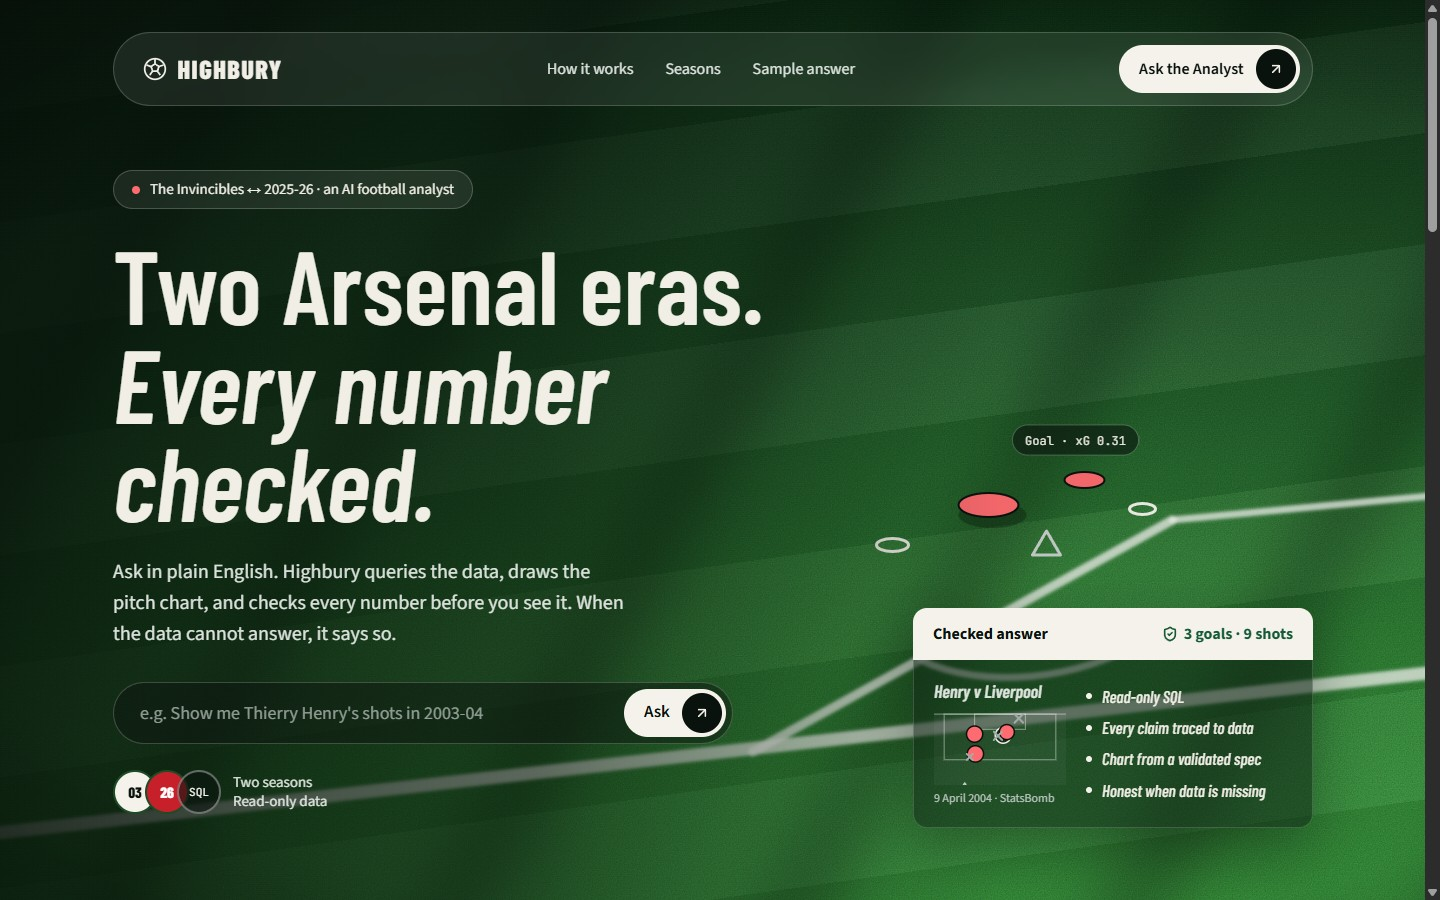
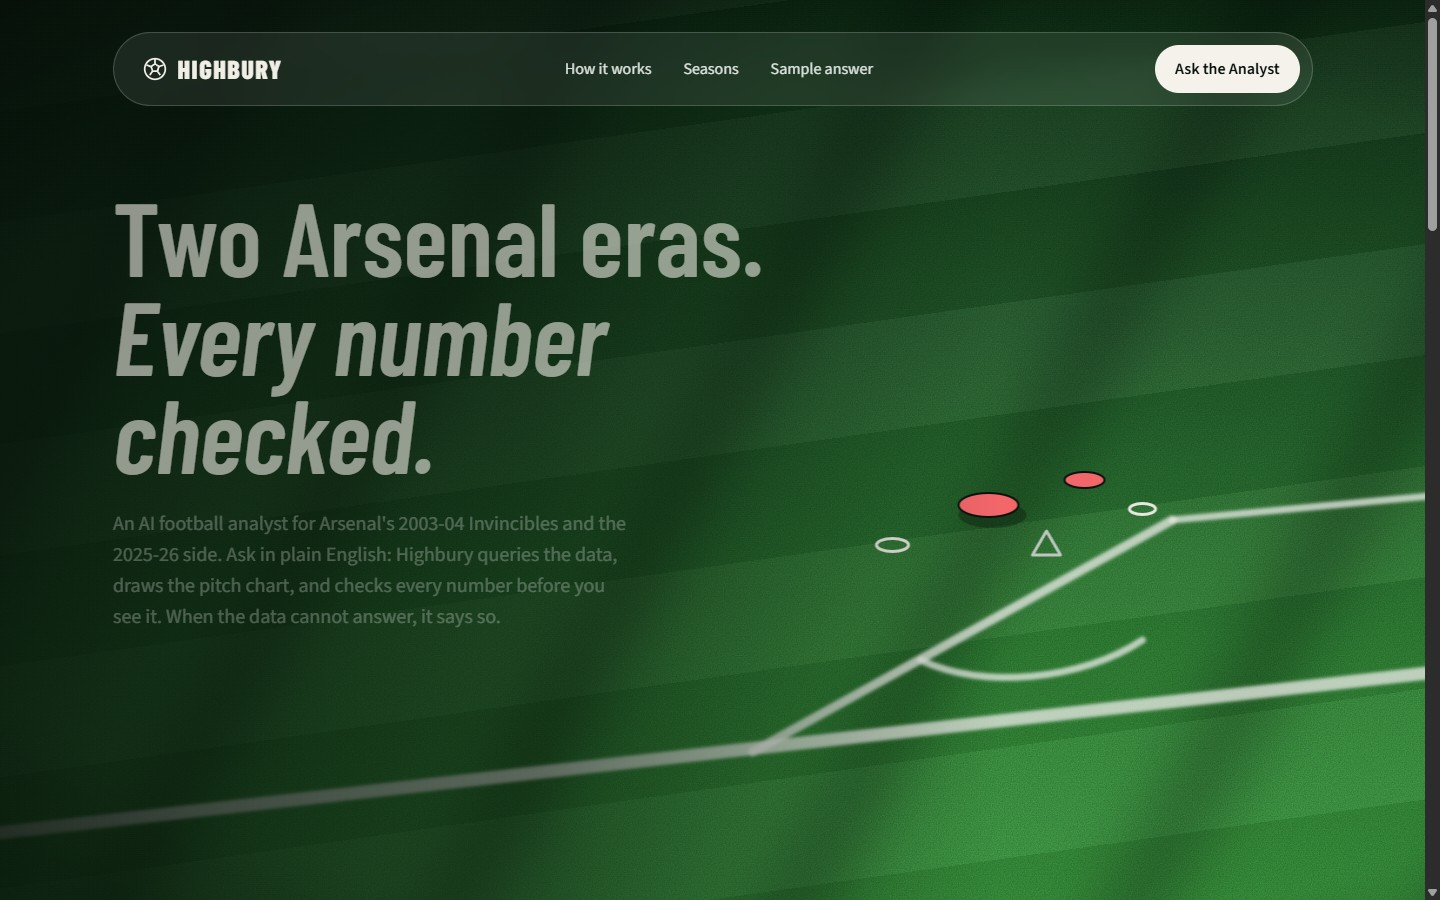
docs: bring the README in step with the beta fixes
The agent now calls three tools, with the catalog and the schema in its
prompt; the MCP server still serves all five. Update the test count, and
retake both screenshots from production: the landing page without the
badge and the arrow-disc pills, and an answer in 4 steps instead of 6.

diff --git a/README.md b/README.md
@@ -50,9 +50,9 @@ Every answer shows:
 
 | Capability | How it works |
 | --- | --- |
-| Answers from real data | An agent plans the question and calls five tools: the data catalog, the schema, a player resolver, a SQL runner, and a chart builder. The data covers shots, passes, and lineups, all 380 league matches of both seasons with team stats and the table, and FPL player data for 2025-26. |
+| Answers from real data | An agent plans the question with the data catalog and the schema already in its prompt, then calls three tools: a player resolver, a SQL runner, and a chart builder. The data covers shots, passes, and lineups, all 380 league matches of both seasons with team stats and the table, and FPL player data for 2025-26. |
 | Does not invent numbers | A verifier written in plain code, not another LLM, checks each claimed number against the rows of the query it cites. Unsupported claims are removed. |
-| Knows what it does not know | The agent reads a data catalog first. Ask for Saka's 2025-26 pass map and it says there is no pass data for that season, then offers his shot map. |
+| Knows what it does not know | The agent checks the data catalog in its prompt before a claim about a season. Ask for Saka's 2025-26 pass map and it says there is no pass data for that season, then offers his shot map. |
 | Stays in scope | "Who will win the Champions League?" is declined with no database call. |
 | Remembers the conversation | Follow-ups such as "Only the ones inside the box." refine the previous answer. A conversation ends after 20 turns. |
 | Cannot change the data | Two independent locks: a SQL parser that allows one `SELECT`, and a read-only database role with a 5-second timeout and a 500-row cap. |
@@ -72,7 +72,7 @@ both runs, and it failed the conversation follow-up 2 times in 9 earlier tries.
 Flash has failed neither, so production stays on Flash. The full reasoning is in
 the results file.
 
-The suite has **942 Python tests** and **263 web unit tests**.
+The suite has **944 Python tests** and **263 web unit tests**.
 
 ## Architecture
 
@@ -80,7 +80,7 @@ The suite has **942 Python tests** and **263 web unit tests**.
 flowchart LR
     B["Browser<br/>Next.js on Vercel"] -- question --> API["FastAPI on AWS ECS<br/>rate limit, answer cache"]
     API --> A["LangChain agent<br/>Gemini 3.8 Flash"]
-    A -- tool calls --> T["Five tools<br/>catalog, schema, player,<br/>run_sql, build_chart"]
+    A -- tool calls --> T["Three tools<br/>player, run_sql,<br/>build_chart"]
     T -- "SELECT only" --> DB[("Postgres<br/>read-only role")]
     A -- answer and claims --> V["Claim verifier<br/>plain code"]
     V -- "checked answer, streamed (SSE)" --> B
@@ -90,7 +90,9 @@ flowchart LR
 1. The browser sends the question and receives a stream of events: each tool
    step as it runs, then the final answer. A ping event keeps the stream open
    through the load balancer while the agent is quiet.
-2. The agent calls the tools in-process. The same functions are also served as
+2. The agent calls the tools in-process. The catalog and the schema are already
+   in its prompt, so it does not spend a tool call to read them. All five data
+   functions (catalog, schema, player, run_sql, build_chart) are also served as
    an **MCP server** over stdio, so any MCP client can use them.
 3. Before the answer is sent, the verifier matches each claimed value to a cell
    in the rows of its cited tool call (exact for counts, within 0.01 for rates).
@@ -224,7 +226,7 @@ moment. You are welcome to read the code, fork it, and build on it under the
 | Path | What |
 | --- | --- |
 | `apps/web` | The Next.js web app |
-| `services/analyst` | The agent, the five tools, the verifier, the API, and the MCP server |
+| `services/analyst` | The agent, the five data tools, the verifier, the API, and the MCP server |
 | `ingest` | Offline loaders for StatsBomb, Understat, football-data.co.uk, and FPL, and the entity resolver |
 | `db/migrations` | SQL schema, views, and roles |
 | `evals` | Golden questions, model list, and results |
